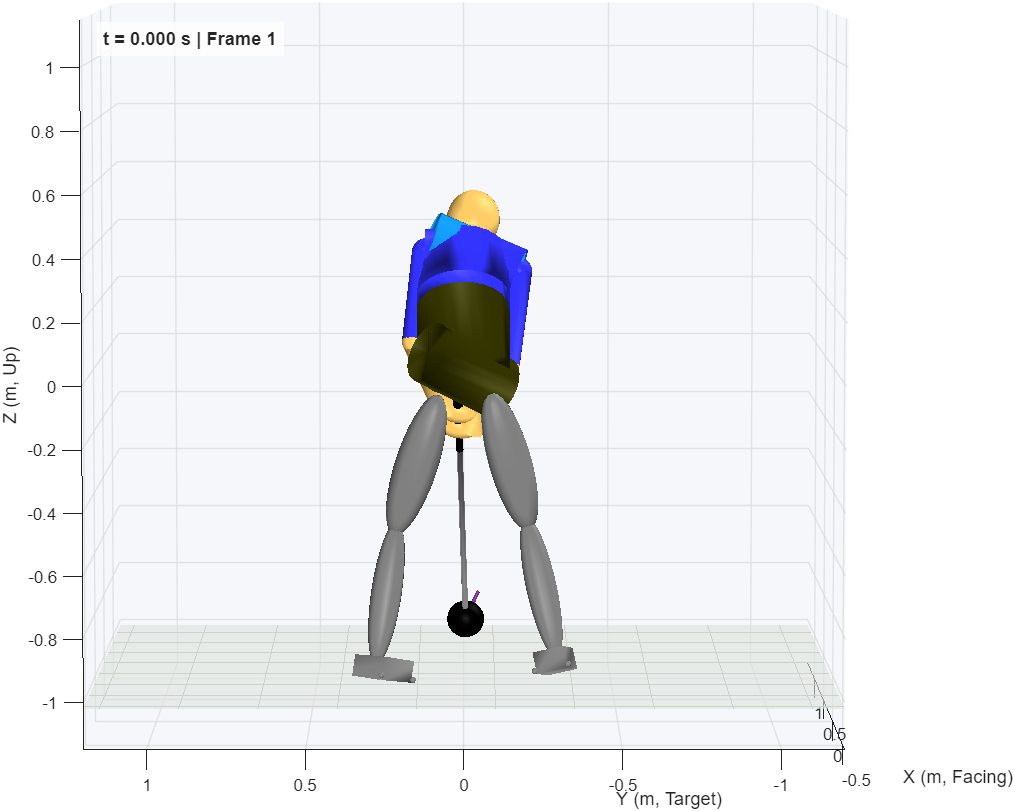
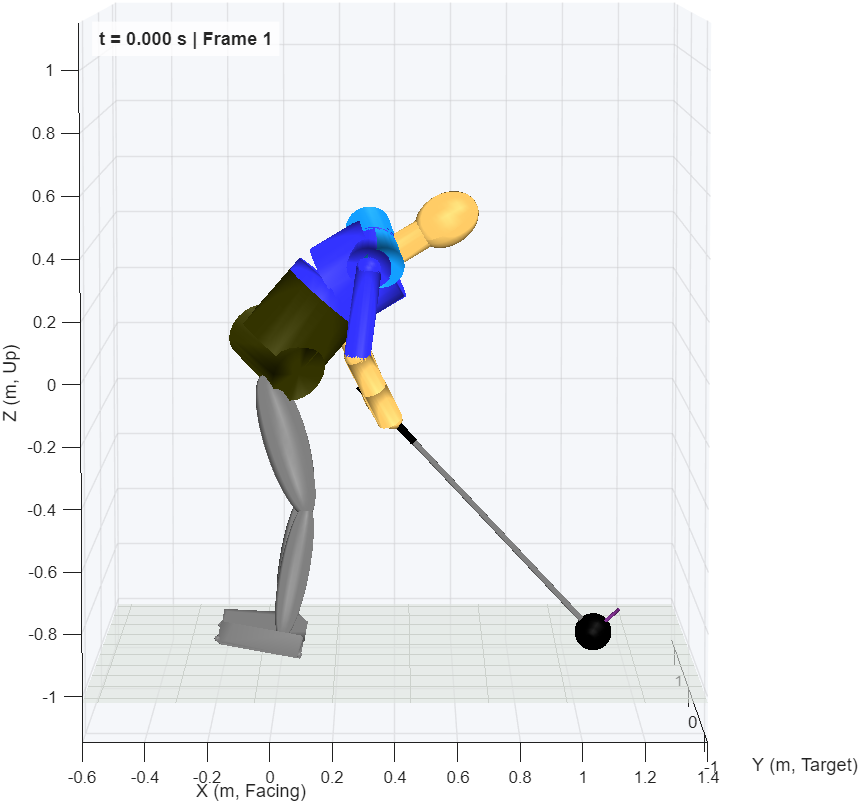
fix(gs3dx): correct face-on and down-the-line camera views in gs3dx_render (#10979)
"face-on" put the camera on -Y (down the line) and "down-the-line" on -X
(face-on, from behind the golfer). Face-on is now the camera on +X (the
way the golfer faces, az 90) and down-the-line the camera on -Y (az 0);
an unknown view is an error and out.view reports the camera. Every
GS3DX stills set is re-rendered.

Tests: render 4/4 (R2025b).

diff --git a/src/engines/Simscape_Multibody_Models/3D_Golf_Model/matlab/exploratory_gs3dx/tools/gs3dx_render.m b/src/engines/Simscape_Multibody_Models/3D_Golf_Model/matlab/exploratory_gs3dx/tools/gs3dx_render.m
@@ -27,7 +27,9 @@ function out = gs3dx_render(mdl, q, opts)
 %     video         (1,:) char output video file (.mp4)
 %     fps           (1,1) double video playback frame rate (default 30)
 %     view          (1,:) char, string, or 1x2 double camera view
-%                   ("face-on", "down-the-line", or [azimuth, elevation])
+%                   ("face-on": camera on +X, the facing axis; "down-the-line":
+%                   camera on -Y, behind the golfer looking at the target;
+%                   "top"; or [azimuth, elevation] as for VIEW)
 %     markers       (:,:,:) double capture markers or joint centres (Nx3xF or
 %                   3xNxF, World frame, m) for overlay dots
 %     time          (1,:) double timestamps (s) per frame for labels
@@ -40,6 +42,7 @@ function out = gs3dx_render(mdl, q, opts)
 %     .files        string array of written image and video file paths
 %     .solids       struct array of parsed solids with local and World geometry
 %     .frames       frame indices rendered
+%     .view         [azimuth elevation] of the camera (degrees)
 %     .status       "success"
 %
 %   See also GS3DX_WHOLE_BODY_IK, GS3DX_TRACK_LEARN.
@@ -153,6 +156,7 @@ function out = gs3dx_render(mdl, q, opts)
     out.files = written_files;
     out.solids = solids;
     out.frames = frames_to_solve;
+    out.view = [az el];
     out.status = "success";
 end
 
@@ -492,19 +496,19 @@ function [az, el] = local_parse_view(view_opt)
         v = lower(strtrim(string(view_opt)));
         switch v
             case {"face-on", "fo"}
-                az = 0; el = 5;
+                az = 90; el = 5;    % camera on +X, in front of the golfer
             case {"down-the-line", "dtl"}
-                az = -90; el = 5;
+                az = 0; el = 5;     % camera on -Y, behind the golfer looking at the target
             case {"top", "overhead"}
                 az = 0; el = 90;
             otherwise
-                az = 0; el = 5;
+                error('gs3dx:render', 'Unknown view "%s"', v);
         end
     elseif isnumeric(view_opt) && numel(view_opt) == 2
         az = double(view_opt(1));
         el = double(view_opt(2));
     else
-        az = 0; el = 5;
+        error('gs3dx:render', 'VIEW must be a view name or [azimuth elevation]');
     end
 end
 

diff --git a/src/engines/Simscape_Multibody_Models/3D_Golf_Model/matlab/exploratory_gs3dx/tests/test_gs3dx_render.m b/src/engines/Simscape_Multibody_Models/3D_Golf_Model/matlab/exploratory_gs3dx/tests/test_gs3dx_render.m
@@ -31,6 +31,17 @@ classdef test_gs3dx_render < matlab.unittest.TestCase
     end
 
     methods (Test)
+        function named_views_place_the_camera(testCase)
+            % World is [facing, toward target, up]: face-on looks at the
+            % golfer's front from +X, down-the-line from behind (-Y).
+            cam = @(v) [sind(v(1)) * cosd(v(2)), -cosd(v(1)) * cosd(v(2)), sind(v(2))];
+            fo = gs3dx_render(testCase.mdl, testCase.ik, view="face-on");
+            dtl = gs3dx_render(testCase.mdl, testCase.ik, view="down-the-line");
+            testCase.verifyGreaterThan(cam(fo.view) * [1; 0; 0], 0.99);
+            testCase.verifyGreaterThan(cam(dtl.view) * [0; -1; 0], 0.99);
+            testCase.verifyError(@() gs3dx_render(testCase.mdl, testCase.ik, view="sideways"), 'gs3dx:render');
+        end
+
         function renders_one_pose_to_temp_folder(testCase)
             temp_dir = tempname;
             mkdir(temp_dir);

diff --git a/docs/development/DEVELOPMENT_LOG.md b/docs/development/DEVELOPMENT_LOG.md
@@ -26,7 +26,7 @@ from any live state and `abandoned` from `parked`. `shipped` never returns to
 - **Branch:** `feat/simscape-gs3dx-exploratory`
 - **Paths:** `src/engines/Simscape_Multibody_Models/3D_Golf_Model/matlab/exploratory_gs3dx/`
 - **Started:** 2026-09-26
-- **Last verified:** 2026-09-28 — #10979: `GS3DX_Shape` (de Leva limb/head inertia, ellipsoid thighs/shanks/hands/head, 973 compiled) and headless `gs3dx_render`; Shape's centre-of-mass reference is within 1 mm RMS of FitBalance's and its balance runs repeat FitBalance (2.64 / 1.44 BW), so segment inertia does not cause the impact spike. Tests: shape 6/6, render 3/3, inertia 7/7, fit_balance 7/7 (R2025b).
+- **Last verified:** 2026-09-28 — #10979: `GS3DX_Shape` (de Leva limb/head inertia, ellipsoid thighs/shanks/hands/head, 973 compiled) and headless `gs3dx_render`; Shape's centre-of-mass reference is within 1 mm RMS of FitBalance's and its balance runs repeat FitBalance (2.64 / 1.44 BW), so segment inertia does not cause the impact spike. `gs3dx_render` face-on/down-the-line views corrected (they were swapped) and stills re-rendered. Tests: shape 6/6, render 4/4, inertia 7/7, fit_balance 7/7 (R2025b).
 - **Summary:** Agent-editable, uniquely named (`GS3DX_`) clones of the hand-built 3D kinetic model in a separate folder, with guards that keep the originals untouched. Used to move to quaternion joints and to build a full-body model within the Home-license block limit.
 - **Next step:** Compare the model's and the capture's centre of mass per segment along the swing, trunk first, to find what leaves 12 mm RMS vertically in the balance reference.
 

diff --git a/src/engines/Simscape_Multibody_Models/3D_Golf_Model/matlab/exploratory_gs3dx/docs/RENDERING.md b/src/engines/Simscape_Multibody_Models/3D_Golf_Model/matlab/exploratory_gs3dx/docs/RENDERING.md
@@ -32,12 +32,18 @@ out = gs3dx_render('GS3DX_FitBalance', ik, stills=[1 320 jc.impact_frame], ...
 ```
 
 Poses are an IK struct (`.joint_ids`, `.joint`, optional `.t`) or a joint
-matrix. Views are `"face-on"`, `"down-the-line"` or `[azimuth elevation]`.
+matrix. Views are `"face-on"` (camera on +X, the way the golfer faces),
+`"down-the-line"` (camera on −Y, behind the golfer looking at the target),
+`"top"` or `[azimuth elevation]` as for `view`; `out.view` is the camera used.
+Before 2026-09-28 the two names were swapped (face-on drew down the line, and
+down-the-line drew a face-on view from behind the golfer).
 
 ## Tests
 
-`tests/test_gs3dx_render.m` (3 tests):
+`tests/test_gs3dx_render.m` (4 tests):
 
+- face-on puts the camera on +X and down-the-line on −Y, and an unknown view
+  is an error;
 - one pose renders headless to a PNG that is not a single colour;
 - the drawn `L Thigh` cylinder is its solver pose applied to its dimensions,
   to 1e-9 m;

diff --git a/docs/development/HANDOFF.md b/docs/development/HANDOFF.md
@@ -197,6 +197,10 @@
       and balance runs repeat it (2.64 BW offset, 1.44 BW capture COM): segment inertia does not
       cause the impact spike (`docs/SHAPE.md`). The earlier lower-trunk 0.53 ratio was an audit
       length artifact (`docs/INERTIA.md`).
+  23. #10979 render views (2026-09-28): `gs3dx_render`'s "face-on" drew down the line and
+      "down-the-line" drew face-on from behind; now face-on = camera on +X (az 90), down-the-line =
+      camera on -Y (az 0), unknown views error, `out.view` reported and tested. All
+      `docs/screenshots/GS3DX_*` stills re-rendered.
 
 ## Files and Decisions
 
